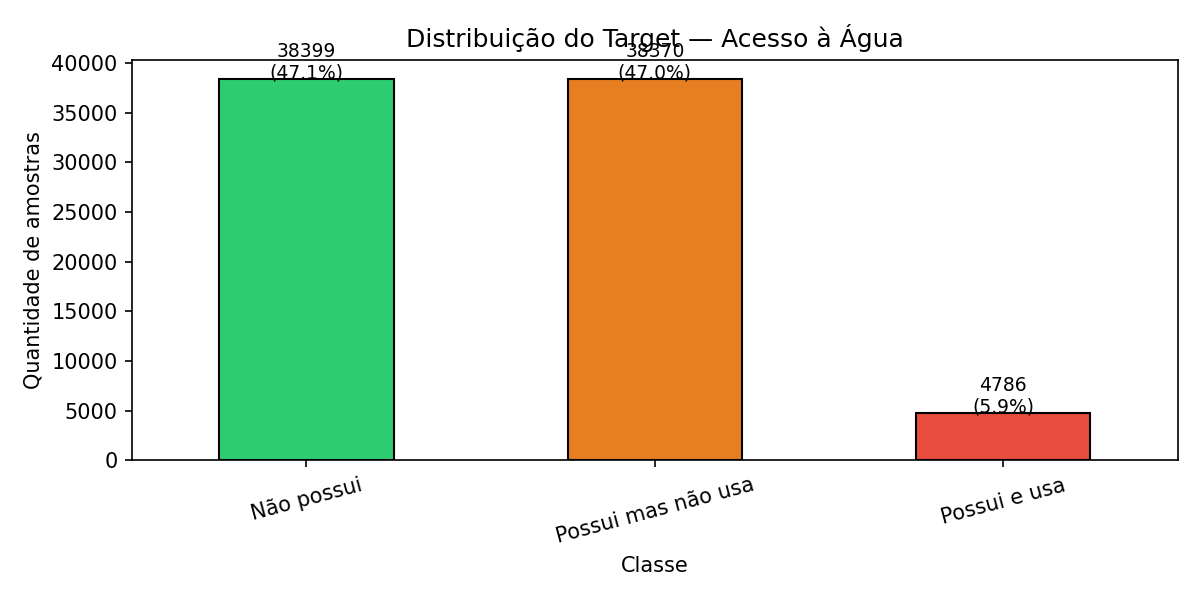
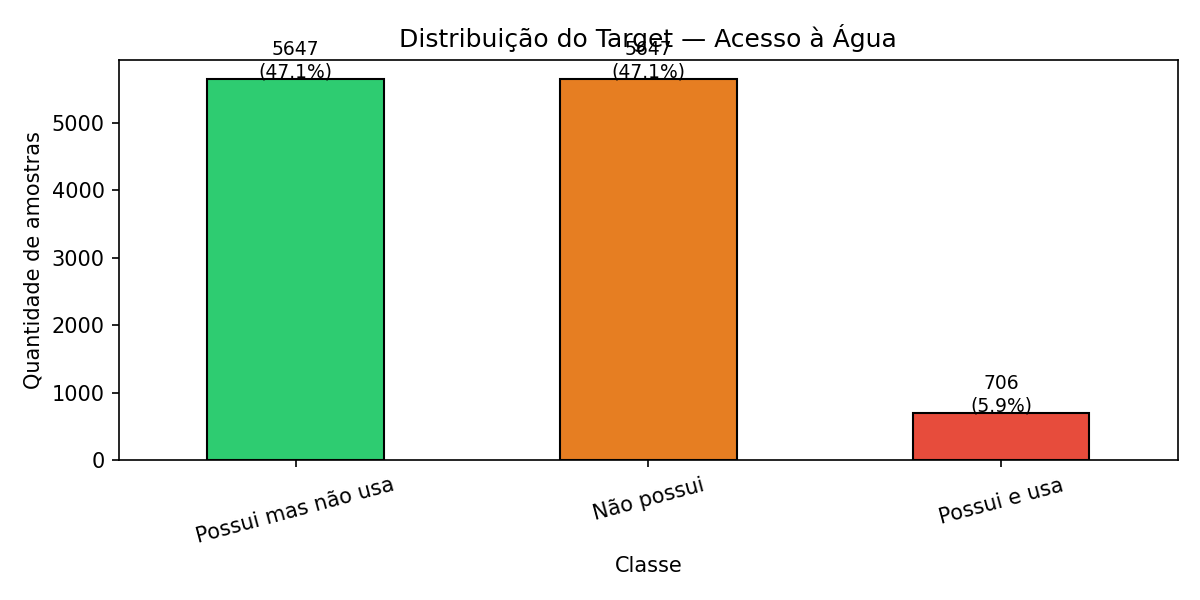
b

diff --git a/trab2_tci.py b/trab2_tci.py
@@ -5,20 +5,8 @@ from sklearn.neighbors import KNeighborsClassifier
 from sklearn.preprocessing import StandardScaler
 from plots import plot_distribuicao_target, plot_heatmap_regiao, plot_matrizes_confusao
 
-COLUNA_REGIONAL = "sigla_uf"  # opções: "nome_regiao_saude", "sigla_uf", "nome"
-
-
-def classificar_agua(x):
-    x = str(x)
-    if "utiliza como forma principal" in x:
-        return "Possui e usa"
-    if "Possui" in x:
-        return "Possui mas não usa"
-    return "Não possui"
-
-
-def escolher_features_modelo(coluna_regional):
-    return [coluna_regional]
+COLUNA_REGIONAL = "nome_regiao_saude"  # "nome_regiao_saude", "sigla_uf", "nome"
+FEATURES_MODELO = [COLUNA_REGIONAL, "grupo_idade", "cor_raca"]
 
 
 def preparar_dados_modelo(df, features_modelo):
@@ -53,22 +41,14 @@ def treinar_modelos_knn(X_train, X_test, y_train, y_test, ks):
 # -- carregamento --
 df = pd.read_csv("dataset.csv")
 print(f"\n{df.shape[0]} linhas, {df.shape[1]} colunas")
-
-# -- target simplificado em 3 classes --
-df["acesso_agua"] = df["tipo_ligacao_rede_geral"].apply(classificar_agua)
-
 print("\nclasses do target:")
 print(df["acesso_agua"].value_counts().to_string())
 
-if "sigla_uf" in df.columns:
-    print("\namostras por UF:")
-    print(df["sigla_uf"].value_counts().to_string())
-
 # dicionário de atributos usado no modelo
 dicionario = {
-    "Atributo": [COLUNA_REGIONAL, "acesso_agua"],
-    "Tipo": ["Categórico", "Categórico"],
-    "Papel": ["Previsor", "TARGET"],
+    "Atributo": FEATURES_MODELO + ["acesso_agua"],
+    "Tipo": ["Categórico"] * len(FEATURES_MODELO) + ["Categórico"],
+    "Papel": ["Previsor"] * len(FEATURES_MODELO) + ["TARGET"],
 }
 print("\natributos do modelo:")
 print(pd.DataFrame(dicionario).to_string(index=False))
@@ -80,11 +60,10 @@ plot_distribuicao_target(df)
 plot_heatmap_regiao(df, COLUNA_REGIONAL)
 
 # -- pré-processamento --
-features_modelo = escolher_features_modelo(COLUNA_REGIONAL)
-X_train, X_test, y_train, y_test = preparar_dados_modelo(df, features_modelo)
+X_train, X_test, y_train, y_test = preparar_dados_modelo(df, FEATURES_MODELO)
 
 nomes_classes = ["Não possui", "Possui e usa", "Possui mas não usa"]
-print(f"\nfeatures: {features_modelo}")
+print(f"features: {FEATURES_MODELO}")
 print(f"treino: {X_train.shape[0]} | teste: {X_test.shape[0]}")
 
 # -- treinamento --

diff --git a/plots.py b/plots.py
@@ -20,7 +20,7 @@ def plot_distribuicao_target(df, arquivo="distribuicao_target.png"):
     plt.close()
 
 
-def plot_heatmap_regiao(df, coluna_regional, arquivo="mapa_calor_correlacao.png"):
+def plot_heatmap_regiao(df, coluna_regional, arquivo="distribuicao_por_regiao.png"):
     import pandas as pd
 
     dist_regiao = pd.crosstab(